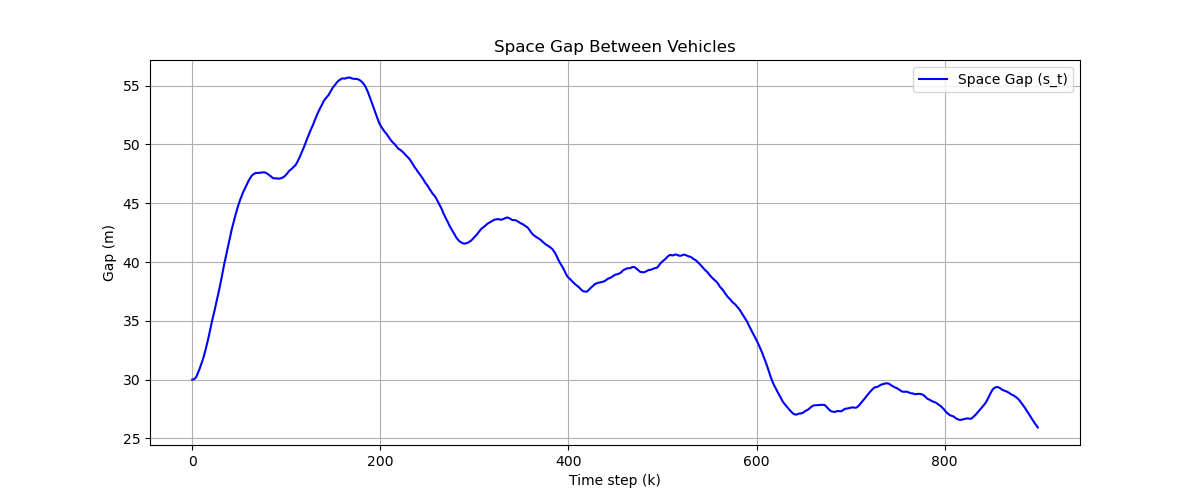
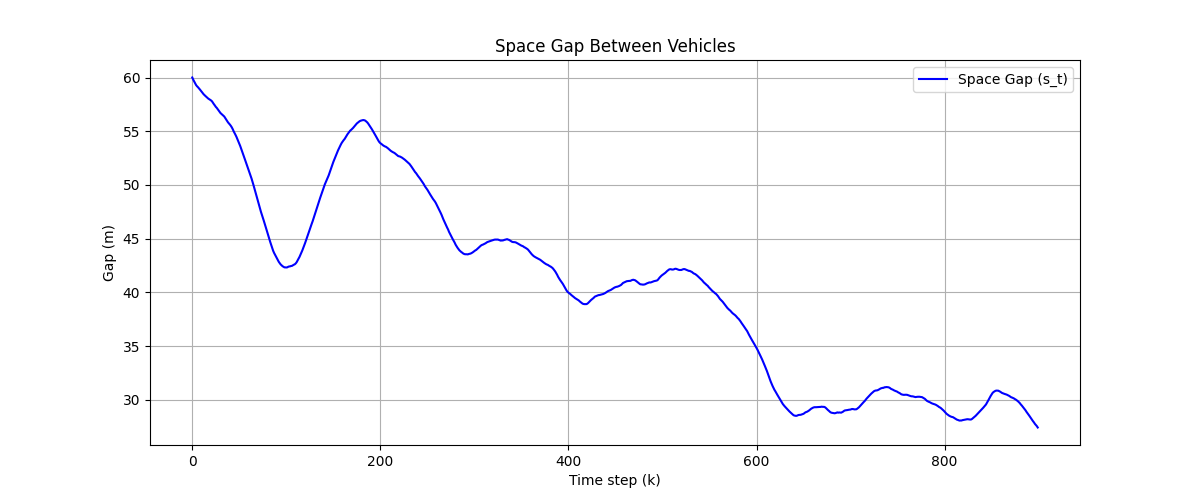
Updated Versions

diff --git a/rls.py b/rls.py
@@ -9,49 +9,51 @@ import os
 if not os.path.exists("plots"):
     os.makedirs("plots", exist_ok=True)
 
-# Parameters from paper:
+# Parameters Taken from Paper:
 time = 900
 dt   = 0.1
 
-# Set random seed for reproducibility
+# Set Seed for Reproducibility:
 np.random.seed(0)
 
 # True parameters for ACC Model:
 theta = [0.08, 0.12, 1.5] # theta[0] = alpha, theta[1] = beta, theta[2] = tau
 
 # Initial Conditions for ACC Model:
-s0 = 60.0 
-v0 = 33.0
-u0 = 31.0
+s0 = 60.0 # SI: m
+v0 = 33.0 # SI: m/s
+u0 = 31.0 # SI: m/s
 
 """
 This portion of the code will preallocate arrays of dimension (time) for 
 all of the vectors that we will be working with in the ACC model.
-    1. Allocates array for u_t (lead) and generates the rest of the trajectories of u_t (mean = 0, variance = 0.2)
-        1.5. Will simulate a curve 
+    1. Allocates vector for u_t (lead) and generates the rest of the trajectories of u_t (mean = 0, variance = 0.2)
+        1.5. Will simulate a curve in the velocity of the leading vehicle
+    2. 
 """ 
 u_t = np.zeros(time)
 u_t[0] = u0
 
 for k in range(1, time):
-    # Simulate a curve between time 300–340
-    #if 300 <= k < 340:
-        #u_t[k] = u_t[k-1] - 2.0  # sudden deceleration entering curve
-    #elif 340 <= k < 360:
-        #u_t[k] = u_t[k-1] + 1.0  # acceleration exiting curve
-    #else:
-        #u_t[k] = u_t[k-1] + np.random.normal(0, 0.2)
+    """
+    # Simuulate a Curve: 
+    if 300 <= k < 340:
+        u_t[k] = u_t[k-1] - 2.0  # sudden deceleration entering curve
+    elif 340 <= k < 360:
+        u_t[k] = u_t[k-1] + 1.0  # acceleration exiting curve
+    else:
+        u_t[k] = u_t[k-1] + np.random.normal(0, 0.2)
 
     # Safety: keep velocity in physical range
-    #u_t[k] = np.clip(u_t[k], 0, 35)
-
+    u_t[k] = np.clip(u_t[k], 0, 35)
+    """
     # small random increments
     u_t[k] = u_t[k-1] + np.random.normal(loc=0, scale=0.2)
 
 """
 Generate data for Space Gap and Velocity of Following vehicle:
-   1. Allocate array for s_t, v_t
-   2. Generate and append values into array using the ACC model equations
+   1. Allocate vector for s_t, v_t
+   2. Generate and append values into array using the ACC model equations for s_t and v_t
 """
 # Memory allocation for s_t and v_t:
 s_t = np.zeros(time)
@@ -67,18 +69,25 @@ for k in range(1, time):
     u_prev = u_t[k-1]
 
     ds = (u_prev - v_prev) * dt
-    dv = (alpha_true*(s_prev - tau_true*v_prev) + beta_true*(u_prev - v_prev)) * dt
+    dv = (theta[0]*(s_prev - theta[2]*v_prev) + theta[1]*(u_prev - v_prev)) * dt
 
     s_t[k] = s_prev + ds
     v_t[k] = v_prev + dv
 
+
+"""
+RLS Initialization & Implementation: 
+    1. Initialize gamma_est (gamma1, gamma2, gamma3) to some initial guess
+    2. Initialize P (covariance matrix) to a large value
+    3. Initialize gamma_history and theta_history arrays to store values at each time step
+"""
 gamma_est = np.array([0.9, 0.01, 0.01])  # Some initial guess for [gamma1, gamma2, gamma3]
-P = np.eye(3)*1000.0 # Initial covariance matrix
+P = np.eye(3)*1000.0 # Initial covariance matrix 
 
 gamma_history = np.zeros((time, 3))
-theta_history = np.zeros((time, 3))  # [alpha, beta, tau] at each step
+theta_history = np.zeros((time, 3))  # [alpha, beta, tau] at each step - 3 x 900 matrix storing all values of theta
 
-# Initialize
+# Initialize:
 gamma_history[0] = gamma_est
 theta_history[0] = invert_gamma(gamma_est, dt)
 
@@ -88,8 +97,8 @@ for k in range(1, time):
     Y = v_t[k]
     X = np.array([v_t[k-1], s_t[k-1], u_t[k-1]])
 
-    denom = 1.0 + X @ P @ X
-    K = (P @ X) / denom
+    denominator = 1.0 + X @ P @ X
+    K = (P @ X) / denominator
 
     # RLS update for gamma
     gamma_est = gamma_est + K*(Y - X.dot(gamma_est))
@@ -98,13 +107,14 @@ for k in range(1, time):
     gamma_history[k] = gamma_est
     theta_history[k] = invert_gamma(gamma_est, dt)
 
+
 # Comparison between final alpha,beta,tau with ground truth
 # Compute absolute errors for each parameter over time
-errors = np.abs(theta_history - np.array([alpha_true, beta_true, tau_true]))
+errors = np.abs(theta_history - np.array([theta[0], theta[1], theta[2]]))
 alpha_est_final, beta_est_final, tau_est_final = theta_history[-1]
-print("Final estimated alpha = %.3f (true=%.3f)" % (alpha_est_final, alpha_true))
-print("Final estimated beta  = %.3f (true=%.3f)"  % (beta_est_final,  beta_true))
-print("Final estimated tau   = %.3f (true=%.3f)"   % (tau_est_final,   tau_true))
+print("Final estimated alpha = %.3f (true=%.3f)" % (alpha_est_final, theta[0]))
+print("Final estimated beta  = %.3f (true=%.3f)"  % (beta_est_final, theta[1]))
+print("Final estimated tau   = %.3f (true=%.3f)"   % (tau_est_final, theta[2]))
 
 
 # Plot - Alpha, Beta, Tau Convergence
@@ -112,7 +122,7 @@ t_axis = np.arange(time)
 fig, axes = plt.subplots(3,1, figsize=(12,10), sharex=True)
 
 params  = ["alpha", "beta", "tau"]
-trueval = [alpha_true, beta_true, tau_true]
+trueval = [theta[0], theta[1], theta[2]]
 colors  = ["r", "g", "b"]
 
 for i, ax in enumerate(axes):
@@ -121,9 +131,8 @@ for i, ax in enumerate(axes):
     ax.legend()
     ax.grid()
 axes[-1].set_xlabel("Time step (k)")
-plt.suptitle("RLS Parameter Convergence via Gamma-Linearization")
+plt.suptitle("RLS Parameter Convergence")
 plt.savefig("plots/rls_estimation_convergence_gamma.png")
-plt.show()
 
 # Compute MAE and MSE
 mae = np.mean(errors, axis=1)  # mean absolute error at each time step
@@ -139,10 +148,9 @@ plt.ylabel("Error Value")
 plt.title("MAE and MSE of Parameter Estimates")
 plt.legend()
 plt.savefig("plots/rls_mae_mse_gamma.png")
-plt.show()
 
 # Plot 2: Absolute Error in alpha, beta, tau
-errors = np.abs(theta_history - np.array([alpha_true, beta_true, tau_true]))
+errors = np.abs(theta_history - np.array([theta[0], theta[1], theta[2]]))
 plt.figure(figsize=(10,4))
 for i, param in enumerate(params):
     plt.semilogy(t_axis, errors[:, i], label=f"Error in {param}")
@@ -152,7 +160,6 @@ plt.ylabel("Absolute Error (log scale)")
 plt.title("Convergence of RLS Parameter Estimates")
 plt.legend()
 plt.savefig("plots/rls_estimation_error_gamma.png")
-plt.show()
 
 """
 Plot - Plots lead vehicle velocity (u_t), following vehicle velocity (v_t),
@@ -169,7 +176,7 @@ plt.title("ACC Model Data (Synthetic)")
 plt.grid()
 plt.legend()
 plt.savefig("plots/acc_model_data.png")
-plt.show()
+
 
 # Plot 4: Velocities (Lead and Following)
 plt.figure(figsize=(12,5))
@@ -181,7 +188,6 @@ plt.title("Lead vs Following Vehicle Velocity")
 plt.grid()
 plt.legend()
 plt.savefig("plots/velocity_comparison.png")
-plt.show()
 
 # Plot 5: Space Gap
 plt.figure(figsize=(12,5))
@@ -192,4 +198,3 @@ plt.title("Space Gap Between Vehicles")
 plt.grid()
 plt.legend()
 plt.savefig("plots/space_gap.png")
-plt.show()

diff --git a/functions.py b/functions.py
@@ -6,10 +6,11 @@ Top half of the file contains the functions that are used in the Recursive Least
 The bottom half of the file contains the functions that are used in Stochastic Gradient Descent (SGD) algorithm.
 """
 
+# RLS Function(s): 
 def invert_gamma(gamma, dt):
     """
     Given gamma1, gamma2, gamma3 = alpha, beta, tau, we are able to directly
-    solve for alpha, beta, tau by using the following equations:
+    solve for alpha, beta, tau by using the following equations algebraically:
     - alpha = gamma2 / dt
     - beta = gamma3 / dt
     - tau = ((1 - gamma1 - gamma3) / gamma2)

diff --git a/README.md b/README.md
@@ -1,12 +1,47 @@
 # Parameter-Methods-Estimation
 
-## Introduction: 
-These research simulations are derived from the paper titled "Online Parameters Estimation Methods for Adaptive Cruise Control Systems" by Wang et al. [Research Paper](https://inria.hal.science/hal-03011790/file/wang-gunter-nice-dellemonache-work-2020.pdf)
-. In adaptive cruise systems, there are various challenges when it comes to predicting future states of velocities given some parameters, distances, space gaps, velocities, etc. This Jupyter notebook attempts to model and simulate the findings and results to conduct furhter analysis on the methods presented. 
+## Introduction
+This repository implements **Recursive Least Squares (RLS)** for online parameter estimation in Adaptive Cruise Control (ACC), based on Wang et al., “Online Parameters Estimation Methods for Adaptive Cruise Control Systems.”  
+[Research Paper](https://inria.hal.science/hal-03011790/file/wang-gunter-nice-dellemonache-work-2020.pdf)
 
-## Methodology: 
-Based off the paper, there exists two primary methods they use to approach to tackle this problem. 
-1. Particle Filtering
-2. Recursive Least Squres
+## Methodology
+We focus on **RLS** to estimate the model
+\[
+\frac{dv}{dt} = \alpha\,(s - \tau v) + \beta\,(u - v)
+\]
+- \(s\): space gap  
+- \(u\): leader speed  
+- \(v\): follower speed  
 
-For this notebook we will be first focusing on the recurisve least squares to attempt to understand how RLS behaves under adaptive cruise control (ACC).  
+## File Structure
+. ├── functions.py # invert_gamma: γ → (α, β, τ) ├── rls.py # data generation, RLS estimation loop, plotting ├── notebook.ipynb # Jupyter notebook for RLS and Particle Filter experiments └── plots/ # saved output figures (PNG)
+
+## Usage: 
+
+## Usage
+1. Clone the repo and navigate into it:
+    `` bash
+    git clone <repo-url>
+    cd Parameter-Methods-Estimation
+2. Run the RLS script
+    `` bash 
+    python rls.py
+
+## Key Function (functions.py)
+def invert_gamma(gamma, dt):
+    """
+    Convert RLS-estimated gamma vector into model parameters (α, β, τ).
+    """
+    γ1, γ2, γ3 = gamma
+    α = γ2 / dt
+    β = γ3 / dt
+    τ = (1 - γ1 - γ3) / γ2 if abs(γ2) > 1e-8 else 0.0
+    return α, β, τ
+
+## RLS Workflow: 
+1. Generate synthetic data for leader speed u_t with Gaussian noise, simulate follower speed v_t and gap s_t using ground truth parameters.
+2. Initialize RLS: set covariance matrix P=1000 IP=1000I.
+3. Iterate over each time step to update parameter vector γ=[γ1,γ2,γ3]γ=[γ1,γ2,γ3].
+4. Convert γγ to α,β,τα,β,τ via invert_gamma.
+5. Compute Mean Absolute Error (MAE) and Mean Squared Error (MSE) against true parameters.
+6. Plot convergence of estimates and error metric
